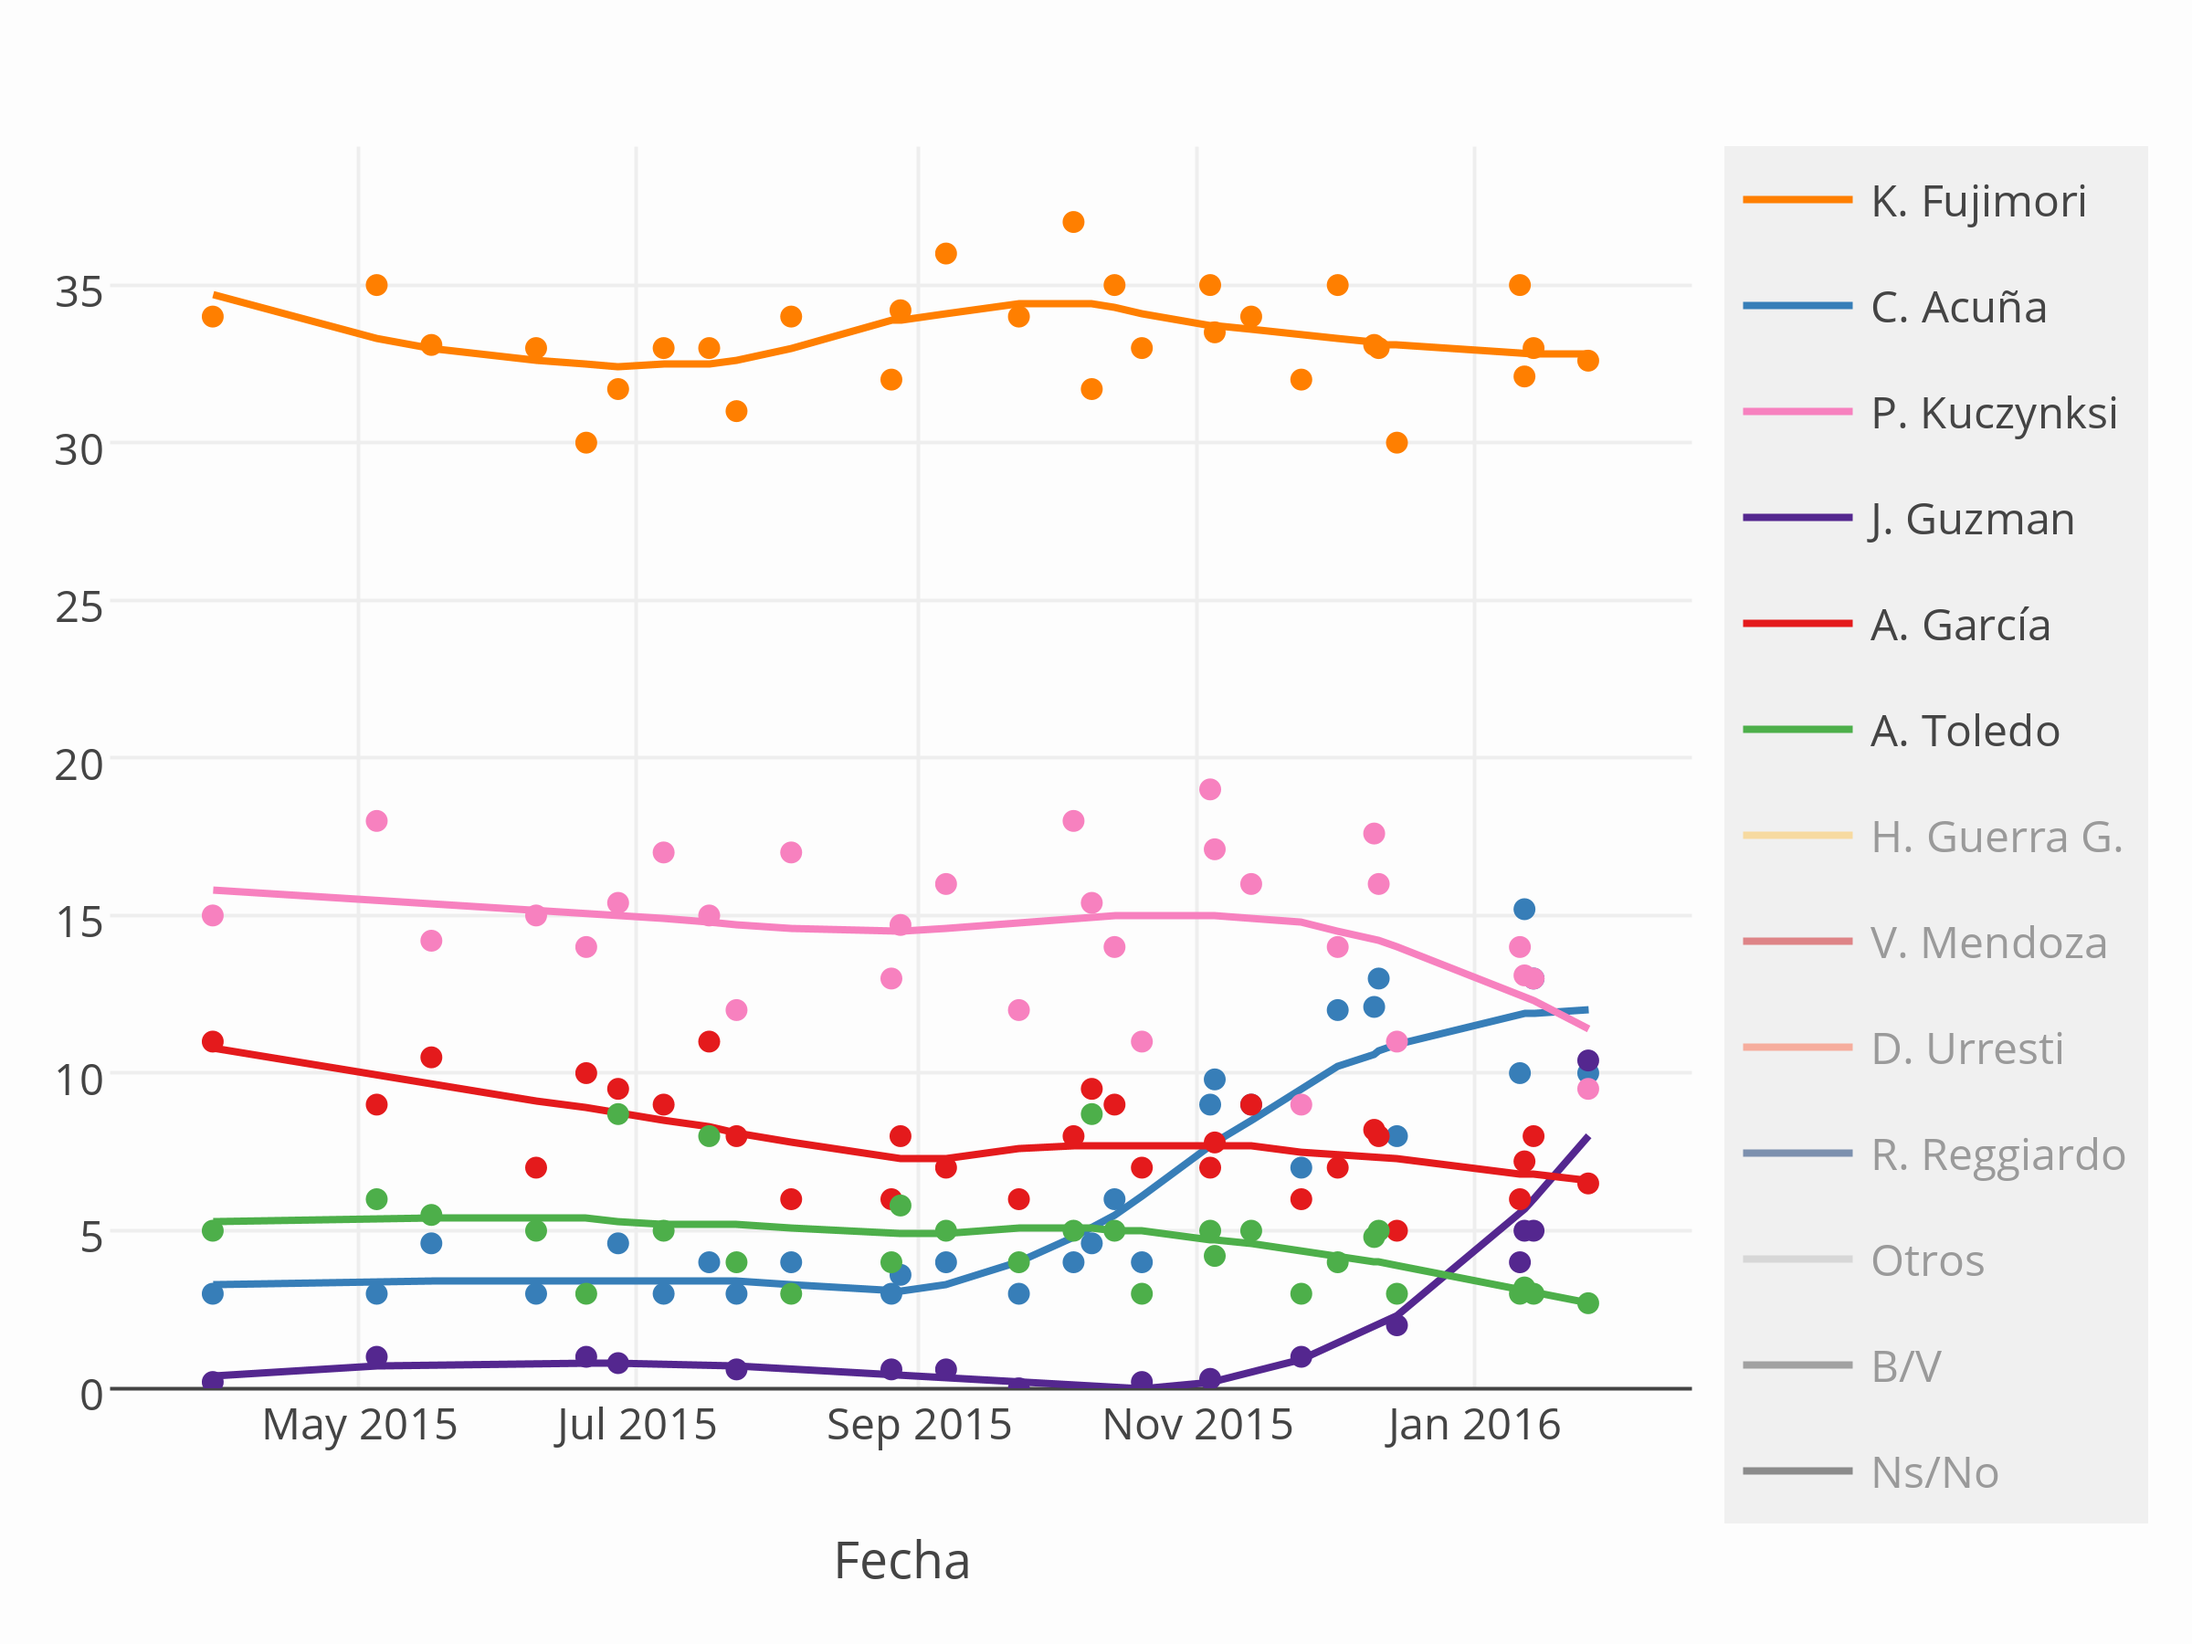
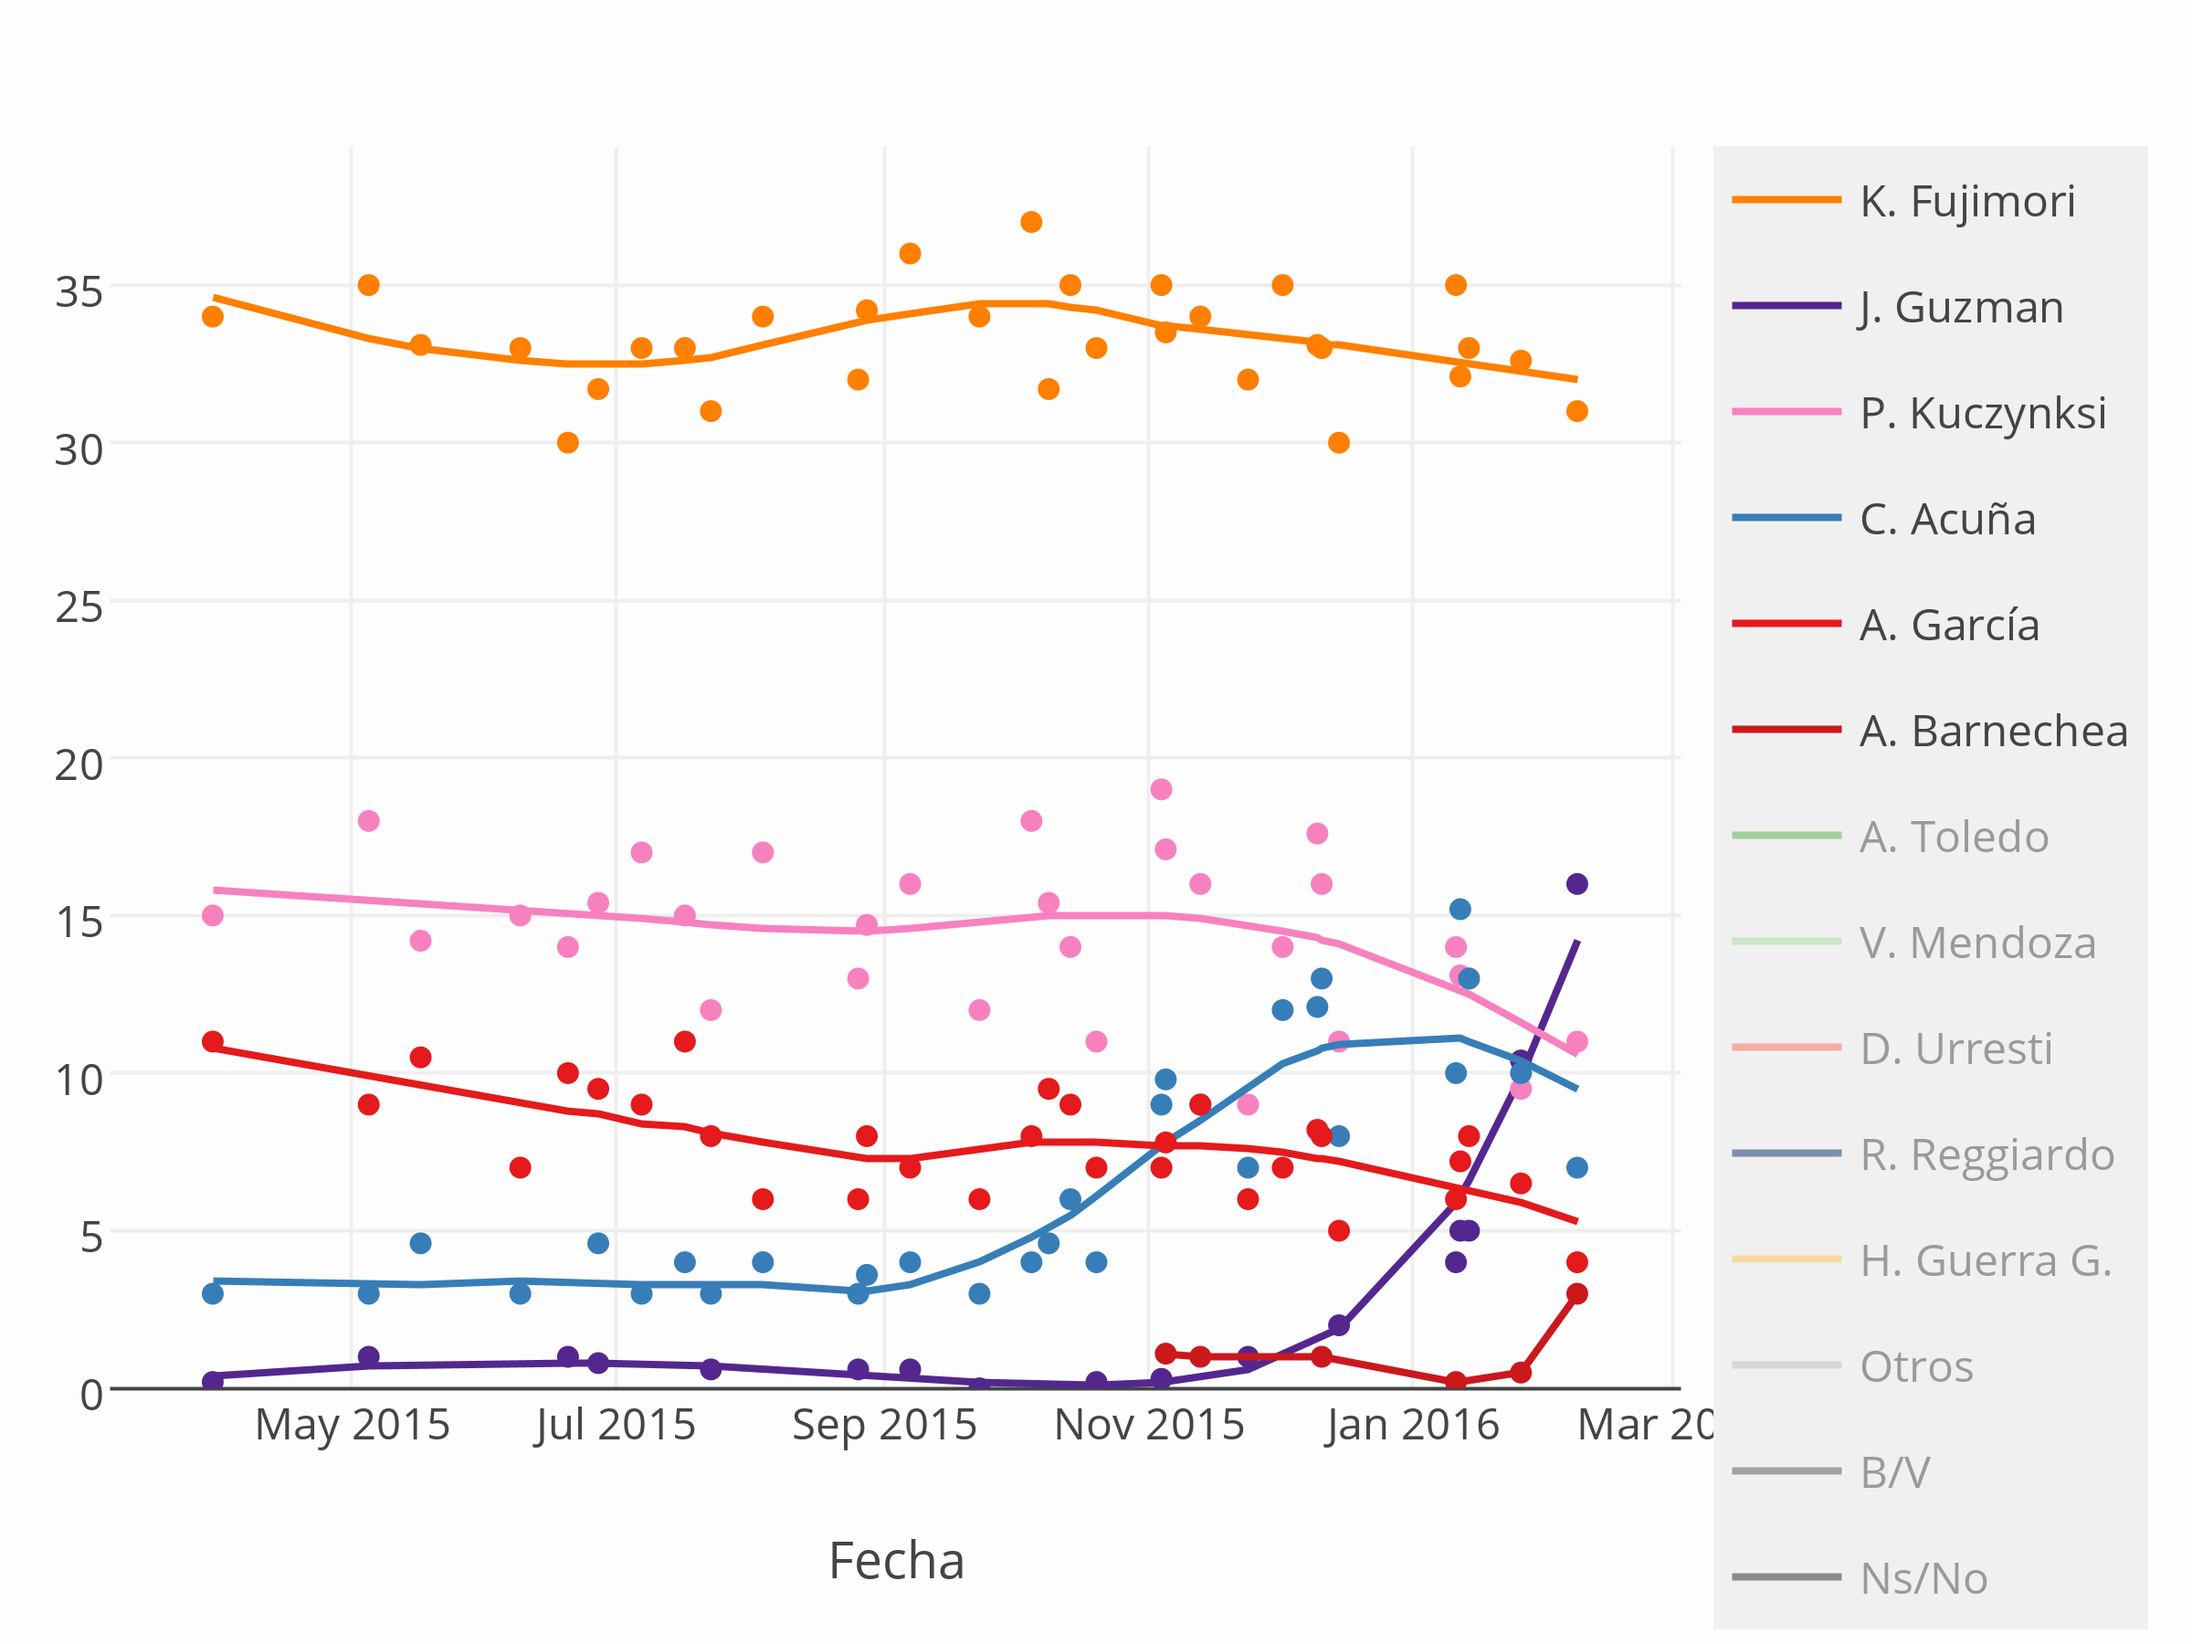
graficoActualizado

diff --git a/_posts/2016-02-10-Elecciones-presidenciales-2016.md b/_posts/2016-02-10-Elecciones-presidenciales-2016.md
@@ -24,7 +24,7 @@ breadcrumb: true
 
 
 
-El siguiente gráfico combina las encuestas de intención de voto. Actualizado el 31-01-2016.
+El siguiente gráfico combina las encuestas de intención de voto. Actualizado el 10-02-2016.
 
 
 
@@ -43,7 +43,7 @@ $('.myIframe').css('height', $(window).height()+'px');
 
 ## Resumen
 
-Estimado de »Resultados.pe« al cierre del trabajo de campo de la encuesta más reciente: 26-01-2016. 
+Estimado de »Resultados.pe« al cierre del trabajo de campo de la encuesta más reciente: 08-02-2016. 
 
 <iframe src="https://plot.ly/~AlejandroKantor/380.embed?link=False"  style="width: 100%" frameBorder="0" height="350" scrolling="no" seamless="seamless" 
 class="myIframe">
